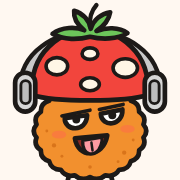
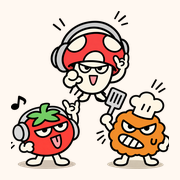
v2.19: 캐릭터를 세 친구 단체 그림으로 (사용자 원본 3장), 아이콘·공유 이미지 교체
Claude-Session: https://claude.ai/code/session_01LKFDqjQofNnMuDbJfY7DCf

diff --git a/index.html b/index.html
@@ -12,17 +12,17 @@
 <meta property="og:title" content="비트밥스">
 <meta property="og:description" content="좋아하는 노래 분위기로 오늘의 메뉴와 주변 음식점을 추천해요.">
 <meta property="og:url" content="https://4tpk7p297h-code.github.io/song-meal/">
-<meta property="og:image" content="https://4tpk7p297h-code.github.io/song-meal/og.png?v=3">
+<meta property="og:image" content="https://4tpk7p297h-code.github.io/song-meal/og.png?v=4">
 <meta property="og:image:width" content="1200">
 <meta property="og:image:height" content="630">
 <meta property="og:locale" content="ko_KR">
 <meta name="twitter:card" content="summary_large_image">
 <meta name="twitter:title" content="비트밥스">
 <meta name="twitter:description" content="좋아하는 노래 분위기로 오늘의 메뉴와 주변 음식점을 추천해요.">
-<meta name="twitter:image" content="https://4tpk7p297h-code.github.io/song-meal/og.png?v=3">
-<link rel="icon" type="image/png" sizes="32x32" href="icon-32.png?v=3">
-<link rel="icon" type="image/png" sizes="192x192" href="icon-192.png?v=3">
-<link rel="apple-touch-icon" href="apple-touch-icon.png?v=3">
+<meta name="twitter:image" content="https://4tpk7p297h-code.github.io/song-meal/og.png?v=4">
+<link rel="icon" type="image/png" sizes="32x32" href="icon-32.png?v=4">
+<link rel="icon" type="image/png" sizes="192x192" href="icon-192.png?v=4">
+<link rel="apple-touch-icon" href="apple-touch-icon.png?v=4">
 <link rel="manifest" href="manifest.webmanifest">
 <meta name="theme-color" content="#ff7a59">
 <meta name="mobile-web-app-capable" content="yes">
@@ -264,11 +264,11 @@
   .places .go a { border-radius: 999px; }
   /* ===== 캐릭터 ===== */
   .top h1 a { display: inline-flex; align-items: center; gap: 8px; }
-  .logo { width: 44px; height: 44px; object-fit: contain; filter: drop-shadow(0 2px 3px rgba(0,0,0,.12)); transition: transform .2s; }
+  .logo { width: auto; height: 48px; object-fit: contain; filter: drop-shadow(0 2px 3px rgba(0,0,0,.12)); transition: transform .2s; }
   .top h1 a:hover .logo { transform: rotate(-8deg) scale(1.06); }
-  body.wide .logo { width: 32px; height: 32px; }
+  body.wide .logo { width: auto; height: 36px; }
   .hello { display: flex; align-items: center; gap: 12px; margin: -4px 0 14px; }
-  .mascot-hello { width: 104px; height: auto; flex: none; animation: bob 2.4s ease-in-out infinite; }
+  .mascot-hello { width: 200px; height: auto; flex: none; animation: bob 2.4s ease-in-out infinite; }
   .bubble { position: relative; background: var(--accent-weak); color: var(--text); border-radius: 18px; padding: 12px 14px; font-size: 15px; line-height: 1.5; font-weight: 600; }
   .bubble::before { content: ""; position: absolute; left: -8px; top: 50%; margin-top: -8px; border: 8px solid transparent; border-left: 0; border-right-color: var(--accent-weak); }
   .loading {
@@ -279,7 +279,7 @@
   :root[data-theme="dark"] .loading { background: rgba(28, 23, 21, .5); }
   @media (prefers-color-scheme: dark) { :root:not([data-theme="light"]) .loading { background: rgba(28, 23, 21, .5); } }
   .loadbox { display: flex; flex-direction: column; align-items: center; gap: 10px; background: var(--card); border: 2px solid var(--line); border-radius: 28px; padding: 26px 30px 22px; box-shadow: var(--shadow); text-align: center; }
-  .loading img { width: 140px; animation: bob .8s ease-in-out infinite; }
+  .loading img { width: 260px; max-width: 70vw; animation: bob .8s ease-in-out infinite; }
   .loading p { margin: 0; color: var(--text); font-weight: 700; font-size: 16px; }
   @keyframes fadein { from { opacity: 0; } to { opacity: 1; } }
   .loading.hidden { display: none; }
@@ -294,7 +294,7 @@
   #sp-none { margin-top: 8px; }
   @keyframes bob { 0%, 100% { transform: translateY(0) rotate(-2deg); } 50% { transform: translateY(-6px) rotate(2deg); } }
   @media (prefers-reduced-motion: reduce) { .mascot-hello, .loading img { animation: none; } }
-  @media (max-width: 420px) { .mascot-hello { width: 80px; } .bubble { font-size: 14px; } .bubble br { display: none; } }
+  @media (max-width: 420px) { .hello { flex-direction: column; } .mascot-hello, .hello.small .mascot-hello { width: 210px; } .bubble { font-size: 14px; } .bubble br { display: none; } .bubble::before { left: 50%; top: -8px; margin: 0 0 0 -8px; border: 8px solid transparent; border-top: 0; border-bottom-color: var(--accent-weak); } }
 
   /* ===== 커뮤니티 (스토리·순위·회원) ===== */
   .top { row-gap: 8px; }
@@ -376,7 +376,7 @@
   .places li.hidnote { cursor: default; color: var(--muted); font-size: 13px; }
   .badge.solo { display: none; color: var(--mint); }
   #result.solo .badge.solo { display: inline-block; }
-  .hello.small .mascot-hello { width: 80px; }
+  .hello.small .mascot-hello { width: 160px; }
   input[type=password], textarea {
     width: 100%; padding: 13px 16px; font-size: 16px; color: var(--text); background: var(--field);
     border: 2px solid var(--line); border-radius: 16px; font-family: inherit; resize: vertical;
@@ -584,7 +584,7 @@
 <body>
 <main>
   <header class="top">
-    <h1><a href="#" id="home" title="처음 화면으로"><img class="logo" src="icon-192.png?v=3" alt="">비트밥스</a></h1>
+    <h1><a href="#" id="home" title="처음 화면으로"><img class="logo" src="mascot.png?v=4" alt="">비트밥스</a></h1>
     <div class="topr">
     <nav class="cnav" aria-label="커뮤니티">
       <button type="button" id="nav-music"><span data-i18n="nav.music">🎵 음악찾기</span></button>
@@ -606,7 +606,7 @@
   <!-- 1. 개인정보 동의 -->
   <section id="consent" class="card">
     <div class="hello">
-      <img src="mascot.png?v=3" alt="비트밥스 캐릭터" class="mascot-hello">
+      <img src="mascot.png?v=4" alt="비트밥스 캐릭터" class="mascot-hello">
       <div class="bubble">안녕하세요! 좋아하는 노래를 알려 주시면<br>그 분위기에 딱 맞는 메뉴를 골라 드릴게요 🎶</div>
     </div>
     <h2>서비스 이용 동의</h2>
@@ -780,7 +780,7 @@
     </div>
     <p class="hint" id="corner-hint" style="margin:-4px 0 12px"></p>
     <div class="grid" id="corner-grid"></div>
-    <div class="rempty hidden" id="corner-empty"><img src="icon-192.png?v=3" alt=""><span></span></div>
+    <div class="rempty hidden" id="corner-empty"><img src="icon-192.png?v=4" alt=""><span></span></div>
     <p class="hint center" id="corner-msg"></p>
     <button type="button" class="ghost hidden" id="corner-more">더 보기</button>
   </section>
@@ -791,7 +791,7 @@
       <span aria-hidden="true">🌐</span><button type="button" data-lang="ko" lang="ko">한국어</button><button type="button" data-lang="en" lang="en">English</button><button type="button" data-lang="ja" lang="ja">日本語</button><button type="button" data-lang="zh" lang="zh">中文</button>
     </div>
     <div class="hello small">
-      <img src="mascot.png?v=3" alt="" class="mascot-hello">
+      <img src="mascot.png?v=4" alt="" class="mascot-hello">
       <div class="bubble" id="auth-bubble">가입하면 나만의 음식 × 노래 조합을 올리고 좋아요를 누를 수 있어요!</div>
     </div>
     <div id="kakao-box" class="hidden">
@@ -1021,7 +1021,7 @@
 
   <div id="loading" class="loading hidden" role="status" aria-live="polite">
     <div class="loadbox">
-      <img src="mascot.png?v=3" alt="">
+      <img src="mascot.png?v=4" alt="">
       <p>노래를 듣고 메뉴를 고르는 중이에요...</p>
       <small id="load-sub" class="hint" style="margin:0"></small>
     </div>
@@ -4160,8 +4160,13 @@ JJ Lin|林俊傑|임준걸`;
   });
 
   // ---------- 업데이트 내역 (관리자 전용) ----------
-  const APP_VERSION = "v2.18";
+  const APP_VERSION = "v2.19";
   const CHANGELOG = [
+    ["v2.19", "2026-11-17", "캐릭터를 세 친구 단체 그림으로", [
+      "v2.18의 합친 캐릭터 대신, 사용자가 준 세 캐릭터(헤드폰 토마토·헤드폰 버섯·뒤집개 든 돈가스 셰프)를 그대로 살려 나란히 선 단체 그림으로 바꿈",
+      "헤더 로고·첫 화면 인사·로딩 화면·링크 공유 이미지는 셋이 나란히, 홈 화면 앱 아이콘은 셋이 삼각형으로 모인 모양 (작은 탭 아이콘은 버섯만)",
+      "좁은 화면에서는 캐릭터 아래에 말풍선이 오도록 배치",
+    ]],
     ["v2.18", "2026-11-17", "새 캐릭터 디자인", [
       "사이트 캐릭터를 새로 그림: 토마토 꼭지 + 헤드폰 쓴 빨간 버섯 갓 + 바삭한 돈가스 몸, 한 손엔 뒤집개, 한 손은 락 손 모양",
       "헤더 로고, 첫 화면 인사, 로딩 화면, 브라우저 탭·홈 화면 앱 아이콘을 새 캐릭터로 교체",

diff --git a/sw.js b/sw.js
@@ -1,7 +1,7 @@
 // 비트밥스 서비스 워커: 홈 화면 앱으로 설치할 수 있게 하고, 인터넷이 끊겼을 때 마지막으로 본 화면을 보여 줌
 // 항상 새 파일을 먼저 받아서(네트워크 우선) 업데이트가 바로 반영됨. 다른 사이트(지도·음악·서버) 요청은 건드리지 않음
-const CACHE = "song-meal-v2.18";
-const SHELL = ["./", "index.html", "lang.js", "lang-data.js", "privacy.html", "icon-192.png?v=3", "icon-512.png?v=3", "apple-touch-icon.png?v=3", "mascot.png?v=3"];
+const CACHE = "song-meal-v2.19";
+const SHELL = ["./", "index.html", "lang.js", "lang-data.js", "privacy.html", "icon-192.png?v=4", "icon-512.png?v=4", "apple-touch-icon.png?v=4", "mascot.png?v=4"];
 self.addEventListener("install", (e) => { e.waitUntil(caches.open(CACHE).then((c) => c.addAll(SHELL)).catch(() => {})); self.skipWaiting(); });
 self.addEventListener("activate", (e) => {
   e.waitUntil(caches.keys().then((ks) => Promise.all(ks.filter((k) => k !== CACHE).map((k) => caches.delete(k)))).then(() => self.clients.claim()));

diff --git a/privacy.html b/privacy.html
@@ -4,9 +4,9 @@
 <meta charset="utf-8">
 <meta name="viewport" content="width=device-width, initial-scale=1">
 <title>개인정보 처리방침 · 비트밥스</title>
-<link rel="icon" type="image/png" sizes="32x32" href="icon-32.png?v=3">
-<link rel="icon" type="image/png" sizes="192x192" href="icon-192.png?v=3">
-<link rel="apple-touch-icon" href="apple-touch-icon.png?v=3">
+<link rel="icon" type="image/png" sizes="32x32" href="icon-32.png?v=4">
+<link rel="icon" type="image/png" sizes="192x192" href="icon-192.png?v=4">
+<link rel="apple-touch-icon" href="apple-touch-icon.png?v=4">
 <style>
   :root { --bg: #faf7f2; --card: #ffffff; --text: #1f1d1a; --muted: #6b665e; --line: #e6e0d6; --chip: #f1ece4; --accent: #d9480f; }
   @media (prefers-color-scheme: dark) {
